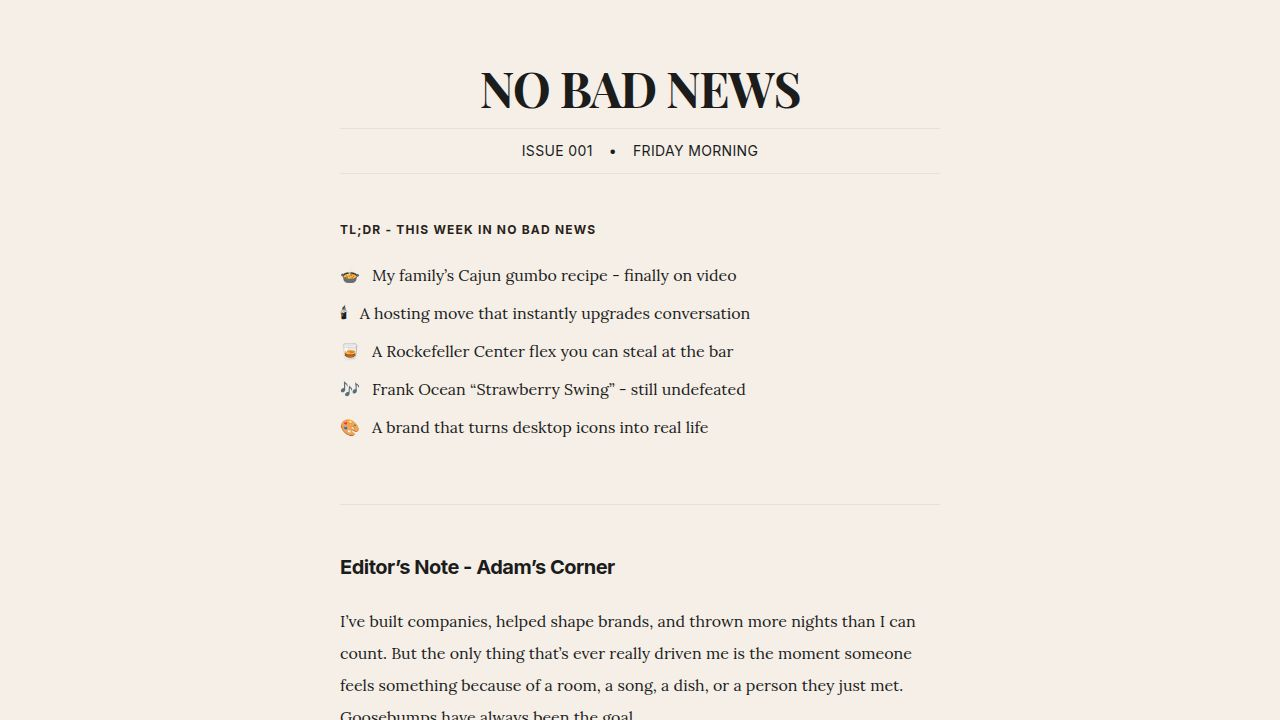
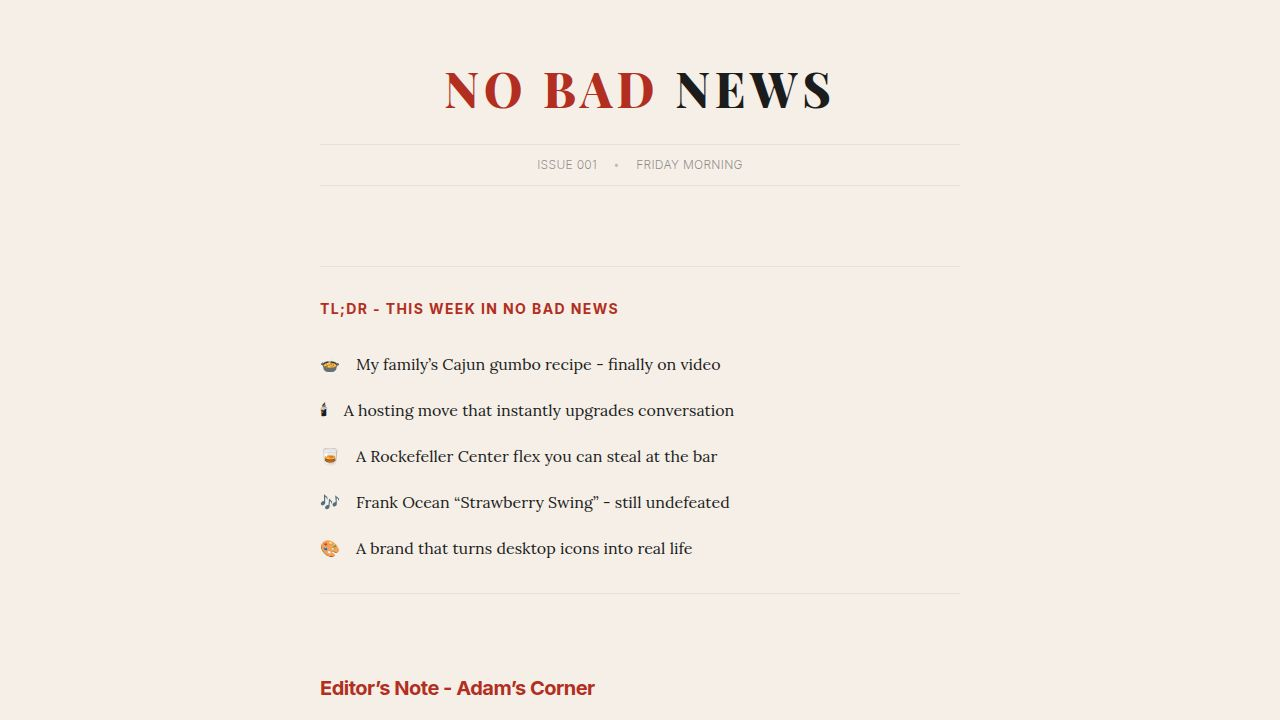
Refine newsletter content and structure with luxury editorial updates
Update Newsletter component with new section titles, micro-descriptors, sponsor slots, and refined typography and spacing to align with luxury editorial email newsletter standards.

Replit-Commit-Author: Agent
Replit-Commit-Session-Id: c24dc4d6-a18f-42b6-a049-433b7ea39b54
Replit-Commit-Checkpoint-Type: full_checkpoint
Replit-Commit-Event-Id: 2c9ccd19-31db-446b-91ff-8a9152724c39
Replit-Commit-Screenshot-Url: https://storage.googleapis.com/screenshot-production-us-central1/2a95231f-858c-4646-9f49-a7f55353faed/c24dc4d6-a18f-42b6-a049-433b7ea39b54/7JfuL7y
Replit-Helium-Checkpoint-Created: true

diff --git a/client/src/pages/Newsletter.tsx b/client/src/pages/Newsletter.tsx
@@ -51,10 +51,10 @@ export default function Newsletter() {
 
         {/* Editor's Note */}
         <section className="mb-16 pt-4">
-          <h2 className="font-sans text-xl font-bold tracking-tight text-[#B22E21] mb-6">
+          <h2 className="font-sans text-xl font-bold tracking-tight text-[#B22E21] mb-2">
             Editor’s Note - Adam’s Corner
           </h2>
-          <div className="prose prose-neutral max-w-none font-body text-[#1C1C1C] leading-loose text-lg">
+          <div className="prose prose-neutral max-w-none font-body text-[#1C1C1C] leading-loose text-lg mt-6">
             <p className="mb-10">
               I’ve built companies, helped shape brands, and thrown more nights than I can count. But the only thing that’s ever really driven me is the moment someone feels something because of a room, a song, a dish, or a person they just met. <strong>Goosebumps have always been the goal.</strong>
             </p>
@@ -74,9 +74,12 @@ export default function Newsletter() {
 
         {/* No Bad Food */}
         <section className="mb-16 pt-4">
-          <h2 className="font-sans text-xl font-bold tracking-tight text-[#B22E21] mb-6">
-            No Bad Food - My Family Gumbo
+          <h2 className="font-sans text-xl font-bold tracking-tight text-[#B22E21] mb-2">
+            No Bad Food
           </h2>
+          <p className="font-body text-sm italic text-[#1C1C1C]/60 mb-6 font-medium">
+            Recipes, lineage, and things worth passing down.
+          </p>
           <div className="prose prose-neutral max-w-none font-body text-[#1C1C1C] leading-loose">
             <p className="mb-8">
               I come from a Cajun family of cooks and restaurant owners. My family ran a BBQ spot in Houston called Lockwood Inn from 1928 to 1996 before it burned down. My grandmother was a Cajun caterer. My mom made the best gumbo I’ve ever had - and everyone who’s ever eaten it agrees.
@@ -97,13 +100,23 @@ export default function Newsletter() {
           </div>
         </section>
 
+        {/* Sponsor Slot 1 */}
+        <div className="w-full h-px bg-[rgba(0,0,0,0.06)] mb-12"></div>
+        <div className="border border-[rgba(0,0,0,0.06)] py-8 px-4 text-center mb-12">
+          <p className="font-sans text-xs tracking-widest uppercase text-[#1C1C1C]/40">
+            Presented with support from a future brand partner
+          </p>
+        </div>
         <div className="w-full h-px bg-[rgba(0,0,0,0.06)] mb-12"></div>
 
         {/* No Bad Hosting */}
         <section className="mb-16 pt-4">
-          <h2 className="font-sans text-xl font-bold tracking-tight text-[#B22E21] mb-6">
+          <h2 className="font-sans text-xl font-bold tracking-tight text-[#B22E21] mb-2">
             No Bad Hosting
           </h2>
+          <p className="font-body text-sm italic text-[#1C1C1C]/60 mb-6 font-medium">
+            Rules, moves, and social leverage for real-world rooms.
+          </p>
           <div className="prose prose-neutral max-w-none font-body text-[#1C1C1C] leading-loose">
             <p className="mb-8">
               The fastest way to level up any conversation at a party is to stop asking, “What do you do?”
@@ -124,11 +137,14 @@ export default function Newsletter() {
 
         <div className="w-full h-px bg-[rgba(0,0,0,0.06)] mb-12"></div>
 
-        {/* Cocktail Bites */}
+        {/* No Bad Snacks */}
         <section className="mb-16 pt-4">
-          <h2 className="font-sans text-xl font-bold tracking-tight text-[#B22E21] mb-6">
-            Cocktail Bites
+          <h2 className="font-sans text-xl font-bold tracking-tight text-[#B22E21] mb-2">
+            No Bad Snacks
           </h2>
+          <p className="font-body text-sm italic text-[#1C1C1C]/60 mb-6 font-medium">
+            Small facts that travel well at the bar.
+          </p>
           <div className="prose prose-neutral max-w-none font-body text-[#1C1C1C] leading-loose">
             <p className="mb-8">
               They lit the Rockefeller Center Christmas tree this week - star and all. That star on top?
@@ -149,9 +165,12 @@ export default function Newsletter() {
 
         {/* No Bad Music */}
         <section className="mb-16 pt-4">
-          <h2 className="font-sans text-xl font-bold tracking-tight text-[#B22E21] mb-12">
-            No Bad Music - Frank Ocean “Strawberry Swing”
+          <h2 className="font-sans text-xl font-bold tracking-tight text-[#B22E21] mb-2">
+            No Bad Music
           </h2>
+          <p className="font-body text-sm italic text-[#1C1C1C]/60 mb-12 font-medium">
+            One song, no skips.
+          </p>
           
           <div className="mb-12 flex justify-center">
             <div className="w-full max-w-[400px]">
@@ -183,13 +202,23 @@ export default function Newsletter() {
           </div>
         </section>
 
+        {/* Sponsor Slot 2 */}
+        <div className="w-full h-px bg-[rgba(0,0,0,0.06)] mb-12"></div>
+        <div className="border border-[rgba(0,0,0,0.06)] py-8 px-4 text-center mb-12">
+          <p className="font-sans text-xs tracking-widest uppercase text-[#1C1C1C]/40">
+            Presented with support from a future brand partner
+          </p>
+        </div>
         <div className="w-full h-px bg-[rgba(0,0,0,0.06)] mb-12"></div>
 
         {/* No Bad Design */}
         <section className="mb-16 pt-4">
-          <h2 className="font-sans text-xl font-bold tracking-tight text-[#B22E21] mb-12">
+          <h2 className="font-sans text-xl font-bold tracking-tight text-[#B22E21] mb-2">
             No Bad Design
           </h2>
+          <p className="font-body text-sm italic text-[#1C1C1C]/60 mb-12 font-medium">
+            Objects and ideas bending reality.
+          </p>
           
           <div className="mb-12 flex justify-center">
             <div className="w-full max-w-[400px]">
@@ -229,11 +258,31 @@ export default function Newsletter() {
 
         <div className="w-full h-px bg-[rgba(0,0,0,0.06)] mb-12"></div>
 
-        {/* Soft Close */}
-        <section className="mb-32 mt-16 text-center">
-          <h2 className="font-sans text-xl font-medium tracking-wide text-[#1C1C1C]/80 mb-6">
-            The Soft Close
+        {/* No Bad Company - Community Spotlight */}
+        <section className="mb-16 pt-4">
+          <h2 className="font-sans text-xl font-bold tracking-tight text-[#B22E21] mb-2">
+            No Bad Company
           </h2>
+          <p className="font-body text-sm italic text-[#1C1C1C]/60 mb-6 font-medium">
+            People from our world doing what they were clearly put here to do.
+          </p>
+          <div className="prose prose-neutral max-w-none font-body text-[#1C1C1C] leading-loose">
+            <p>
+              Community spotlight coming here. This section highlights founders, hosts, builders, creatives, and operators from inside our world.
+            </p>
+          </div>
+        </section>
+
+        <div className="w-full h-px bg-[rgba(0,0,0,0.06)] mb-12"></div>
+
+        {/* Today's Thought (Sign-off) */}
+        <section className="mb-32 mt-16 text-center">
+          <h2 className="font-sans text-xl font-bold tracking-tight text-[#B22E21] mb-2">
+            Today’s Thought
+          </h2>
+          <p className="font-body text-sm italic text-[#1C1C1C]/60 mb-8 font-medium">
+            A final sentence to sit with.
+          </p>
           <p className="font-body text-lg text-[#1C1C1C] leading-loose">
             That’s it for this week.<br/>
             Same time next Friday.
@@ -247,7 +296,7 @@ export default function Newsletter() {
           </button>
           
           <p className="font-sans text-xs text-[#2A1F1A]/50 tracking-wide uppercase">
-            “No Bad Company - Curated, not crowded.”
+            “No Bad Company - for stories that need to be told”
           </p>
         </footer>
 
